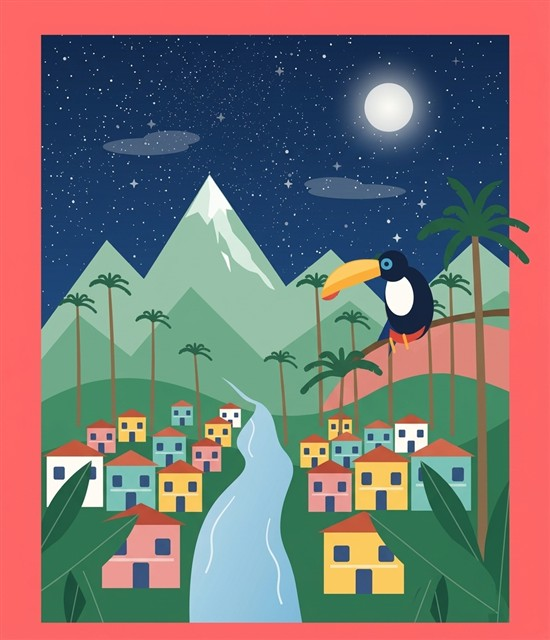
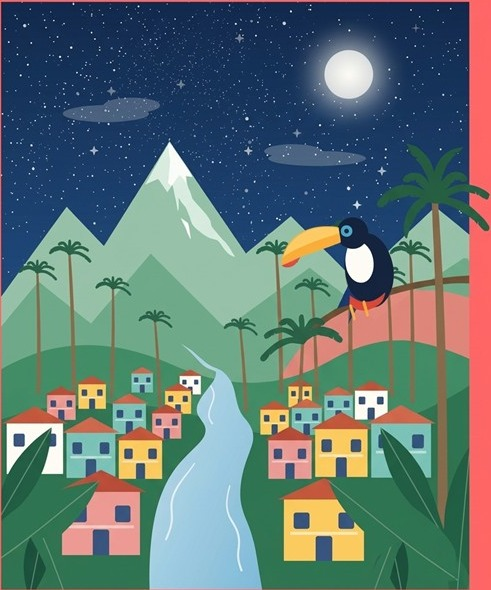
Cambio de imagen pagina de inicio

diff --git a/js/sonido.js b/js/sonido.js
@@ -4,6 +4,15 @@
    preferencia "Sonido" de Ajustes. No toca el DOM ni la lógica del juego; app.js
    le avisa cuándo sonar (Sonido.reproducir('correcta'), Sonido.alTick(segundos)…).
 
+   Cómo se conecta: al cargarse (después de app.js) este archivo ENVUELVE los métodos de App y de
+   Juego que ya existen (ver Sonido.instalar al final). Así index.html solo necesita la etiqueta
+   <script src="js/sonido.js" defer></script> después de app.js y no hay que editar app.js.
+
+   Precisión: los audios se decodifican una vez con la Web Audio API y se reproducen desde memoria
+   (latencia casi nula). Además se recorta automáticamente el SILENCIO INICIAL de cada archivo, que
+   es la causa habitual de que el sonido "llegue tarde". Si Web Audio no está disponible (o los
+   archivos no se pueden leer, p. ej. abriendo index.html con doble clic), se usa <audio> como respaldo.
+
    Reglas:
      · Si el usuario desactiva el sonido, no suena nada y se corta lo que esté sonando.
      · Si un archivo falta o el navegador bloquea la reproducción, el juego sigue sin sonido
@@ -53,7 +62,8 @@ const Sonido = {
         audio.addEventListener('error', () => { audio._roto = true; });
         this._audios[nombre] = audio;
       } catch (error) { /* sin audio: el juego sigue */ }
-      if (typeof fetch === 'function') {
+      // Con file:// (index.html abierto con doble clic) el navegador bloquea fetch: se usa solo <audio>, sin errores en consola.
+      if (typeof fetch === 'function' && window.location.protocol !== 'file:') {
         fetch(efecto.archivo)
           .then((r) => (r.ok ? r.arrayBuffer() : null))
           .then((datos) => { if (datos) { this._datos[nombre] = datos; if (this._ctx) this._decodificar(nombre); } })

diff --git a/css/responsive.css b/css/responsive.css
@@ -161,3 +161,35 @@
   .cabecera, .pie, .mensajes { display: none; }
   body { background: #fff; }
 }
+
+/* ==========================================================================
+   Inicio: la etiqueta y la tarjeta de texto ya NO van encima de la ilustración.
+   Se apilan: etiqueta arriba, imagen completa en medio y tarjeta debajo.
+   (Va al final del archivo para ganar a las reglas anteriores de .inicio__visual.)
+   ========================================================================== */
+.inicio__visual {
+  position: static;
+  display: grid;
+  gap: var(--esp-3);
+  overflow: visible;
+  background: none;
+  border-radius: 0;
+  aspect-ratio: auto;
+  min-height: 0;
+  max-height: none;
+}
+.inicio__ilustracion {
+  height: auto;
+  aspect-ratio: 4 / 3;
+  max-height: 420px;
+  border-radius: var(--radio-tarjeta);
+  background: var(--color-azul);
+}
+.inicio__visual-etiqueta { position: static; order: -1; justify-self: start; }
+.inicio__visual-pie { position: static; }
+@media (min-width: 768px) {
+  .inicio__ilustracion { aspect-ratio: 16 / 9; }
+}
+@media (min-width: 1024px) {
+  .inicio__ilustracion { aspect-ratio: 491 / 590; max-height: 560px; }
+}

diff --git a/css/styles.css b/css/styles.css
@@ -306,7 +306,7 @@ svg.icono { width: 20px; height: 20px; }
   animation: pantalla-entra 220ms ease both;   /* transición discreta: solo opacidad y 6 px */
 }
 /* Resultado: aire extra entre el bloque de puntaje y la revisión de falladas */
-#resultado-contenido { display: flex; flex-direction: column; gap: var(--esp-10); }
+#resultado-contenido { display: flex; flex-direction: column; gap: var(--esp-6); }
 .cabecera-pantalla { display: flex; flex-direction: column; gap: var(--esp-2); }
 
 .etiqueta {
